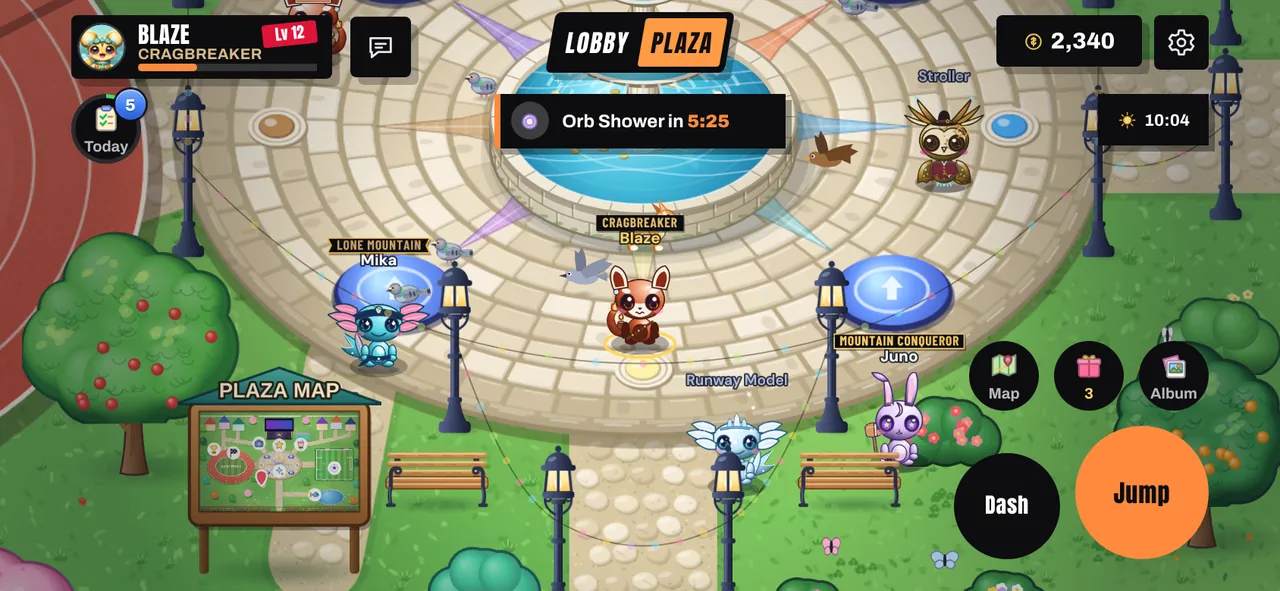
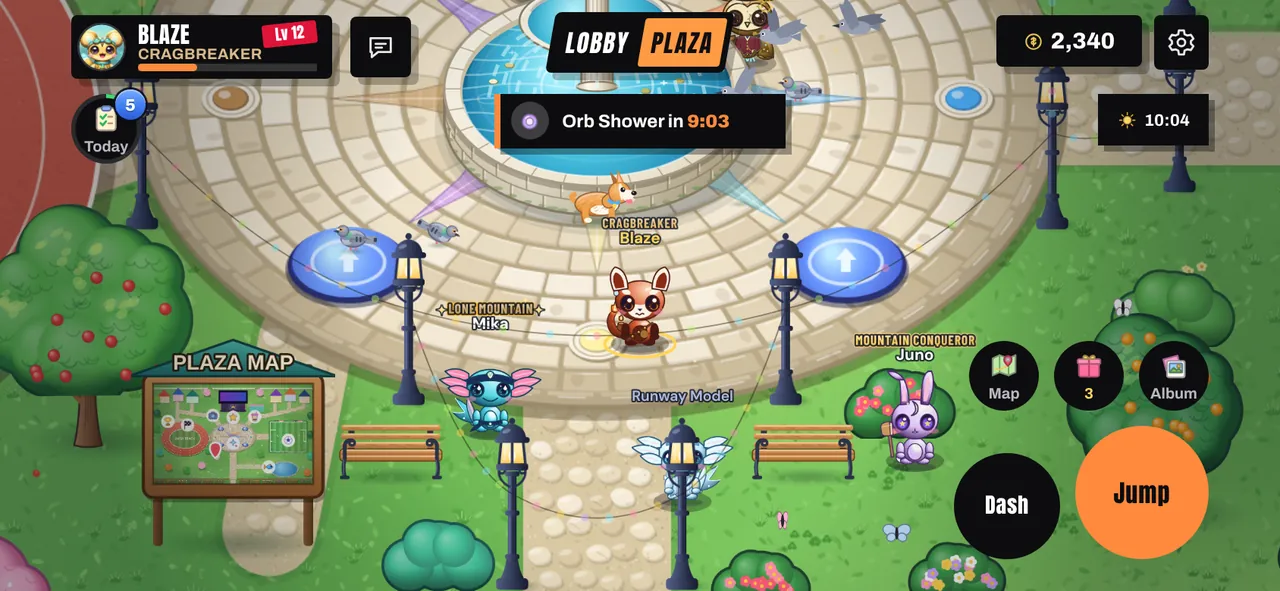
README and player guide: titles over names in the Plaza, picture retaken
Claude-Session: https://claude.ai/code/session_01GGURqPR53u4FXiG8cLPVbb

diff --git a/scripts/readme/readme-shots.spec.ts b/scripts/readme/readme-shots.spec.ts
@@ -67,7 +67,7 @@ const plaza: Scene = {
         });
         Object.assign(world.bodyOf(key), { x: me.x + dx, y: me.y + dy });
       };
-      join("mika", "Mika", "Lone Mountain", "#c9a46a", "tidefin", -215, 20);
+      join("mika", "Mika", "Lone Mountain", "#c9a46a", "tidefin", -125, 70);
       join(
         "juno",
         "Juno",

diff --git a/docs/player-guide.md b/docs/player-guide.md
@@ -65,7 +65,7 @@ Co-op raids for 1–4 players open from the Raid Hub: a roster of seven bosses, 
 
 **Adventure:** the home screen’s Adventure card opens player levels 1–100, a free monthly seasonal reward journey, the Daily Spark and weekly arcade (Crown Chase, Meteor Mayhem and Ultimate Overload). XP comes from verified results and daily missions; rewards are cosmetic and automatic. Each level pays 30 coins, or 100 coins from level 50; titles come at levels 5, 30, 50, 60, 75, 90 and 100, and cosmetics every few levels in between, up to the Mythical Lv 55–100 set (Prism frame, Nova entrance, Starlit colors, Solar aura, Eclipse finale, Prismatic laurel and the Element Master frame). The Daily Spark doubles the first 500 XP each Pacific day. Seasons have 30 tiers of 1,200 XP (cosmetics at tiers 5, 12, 20 and 30) from the month after [migration 035](../supabase/migrations/035_level_100_daily_spark.sql) runs; earlier months keep 20 tiers of 400 XP. Arcade stays outside the rating ledger. Apply [migration 022](../supabase/migrations/022_player_journey.sql) after 021 for saved progression, migration 035 after 034 for levels 51–100, the Daily Spark and the 30-tier season, and [migration 051](../supabase/migrations/051_level_cosmetics.sql) after 050 for the Lv 55–100 cosmetics (it also gives them to everyone already past those levels). Apply [migration 028](../supabase/migrations/028_retire_raid_modes.sql) after 027 to retire Boss Rush and Raid of the Day while preserving earned rewards. See [the adventure guide](adventure-roadmap.md).
 
-**Plaza:** the hub's _Plaza_ tab is a shared playground (up to 40 players per copy): walk, jump, dash, bounce pads, a stage with an LED wall, a ball pitch with four bots, a dash track with hurdles, a Photo Spot and the Volt Boba truck (free: 30% more speed for 30 s). A polaroid from the Photo Spot can be saved as a picture or kept in the Plaza's photo album (the _Album_ button), which holds the newest 30 on this device only (IndexedDB); nothing is uploaded. The game server moves everyone and runs the ball, lap times and the Orb Shower (the first minute of every quarter hour, UTC; caught orbs count toward the orbs quest). Everyone gets 10 free treats a Pacific day to throw (candy, cupcake, donut, lollipop, cookie). "Plaza today" has five quests paid automatically in shop coins once a Pacific day (goal 2, lap 2, cheers 2, orbs 1, photo 1), and TOP DASH shows the week's best laps. A player's equipped title shows over their name and on their card, in a look that grows with its tier (Common to Mythical, by how hard the title is to earn): plain coloured text, an ink plate, an edged plate with a glint, a gold-edged plate with sparks, a drifting ribbon. What moves plays for you and the five players nearest you, and holds still on Low graphics and with Reduce motion. Needs [migration 038](../supabase/migrations/038_plaza.sql) after 037.
+**Plaza:** the hub's _Plaza_ tab is a shared playground (up to 40 players per copy): walk, jump, dash, bounce pads, a stage with an LED wall, a ball pitch with four bots, a dash track with hurdles, a Photo Spot and the Volt Boba truck (free: 30% more speed for 30 s). A polaroid from the Photo Spot can be saved as a picture or kept in the Plaza's photo album (the _Album_ button), which holds the newest 30 on this device only (IndexedDB); nothing is uploaded. The game server moves everyone and runs the ball, lap times and the Orb Shower (the first minute of every quarter hour, UTC; caught orbs count toward the orbs quest). Everyone gets 10 free treats a Pacific day to throw (candy, cupcake, donut, lollipop, cookie). "Plaza today" has five quests paid automatically in shop coins once a Pacific day (goal 2, lap 2, cheers 2, orbs 1, photo 1), and TOP DASH shows the week's best laps. A player's equipped title shows over their name and on their card, in a look that grows with its tier (Common to Mythical, by how hard the title is to earn): plain coloured lettering, shaded lettering, a second outline and a glint, a gold outline with stars and sparks, letters whose colours drift (no plate or frame behind any of them). What moves plays for you and the five players nearest you, and holds still on Low graphics and with Reduce motion. Needs [migration 038](../supabase/migrations/038_plaza.sql) after 037.
 
 **The Spire:** a climb in the Raid Hub for 1–4 players, seventy floors in seven zones, each with its own element. Each zone has nine floors of Echo waves (front-liners, casters and skirmishers), an elite on its fifth floor and, on its tenth, the Ascendant version of a raid boss in that boss's arena; clearing a zone's boss sets your checkpoint to the next zone. Data and how to add floors: [Updating the Spire](spire-content-guide.md) and `packages/shared/src/spire.ts`.
 

diff --git a/README.md b/README.md
@@ -12,7 +12,7 @@ Free in your browser, on a phone (best in landscape) or a computer. More about t
 </p>
 <p align="center">
   <img src="docs/readme/raid.webp" width="49%" alt="A four-player raid against Lumiwick: the boss's health bar and phase at the top, a ring of fire warning on the floor and the warning 'Flame Ring: jump as the expanding edge reaches you!'.">
-  <img src="docs/readme/plaza.webp" width="49%" alt="The Plaza at midday: a player's Pyranda by the fountain with two other players, each with a title on a small plate over their name, and bounce pads, lamp posts, benches, the Plaza map board and the Map, gifts, Album, Dash and Jump buttons.">
+  <img src="docs/readme/plaza.webp" width="49%" alt="The Plaza at midday: a player's Pyranda by the fountain with two other players, each with a title over their name, and bounce pads, lamp posts, benches, the Plaza map board and the Map, gifts, Album, Dash and Jump buttons.">
 </p>
 
 ## What's in the game
